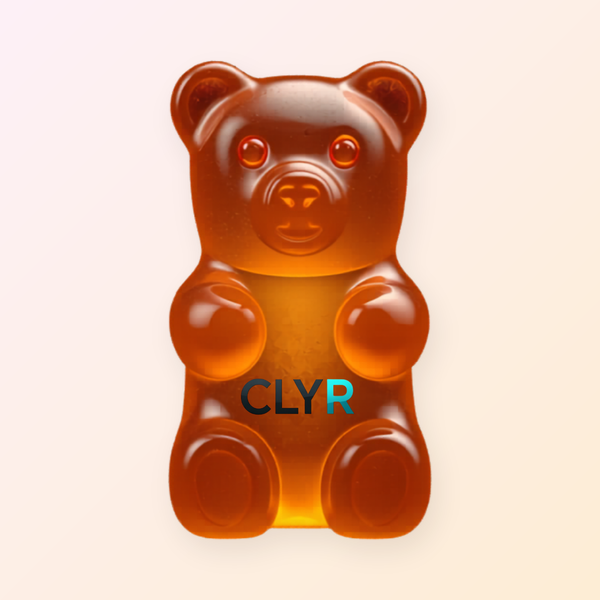
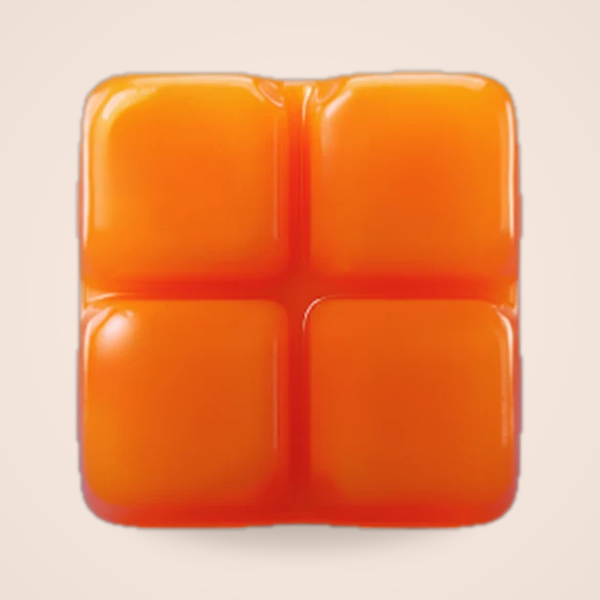
og-images: regenerate 3 redesigned product OG cards to match live art + cache-bust
Text/social link previews showed pre-redesign product art (the OG meta still
pointed at the old /img/card/ set). Isolated the true mismatches by perceptual
diff of old-OG vs current hero art — only 3 products were actually redesigned;
the vial group + tadalafil-5mg already matched and were left untouched.

Regenerated from current cardv2 art onto the matching cream card:
- sildenafil-gummy: gummy bear -> orange square gummy
- sild-tadal-oxy:   purple TRIPLE-ODT troche -> pink T3 ODT tablet
- pt141:            old vial -> pink PT-141 ODT tablet
og:image + twitter:image cache-busted (?v=20260718) so cached previews re-scrape.

diff --git a/pt141.html b/pt141.html
@@ -19,11 +19,11 @@ j=d.createElement(s),dl=l!='dataLayer'?'&l='+l:'';j.async=true;j.src=
 <meta name="description" content="PT-141 (Bremelanotide) + Oxytocin ODT for libido and arousal. Works through the brain's melanocortin pathways. For men and women. from $83/mo, billed once.">
 <meta property="og:title" content="PT-141, Libido support, $149 | CLYR Health">
 <meta property="og:description" content="Bremelanotide acts on the brain to support desire and arousal, for men and women. Combined with Oxytocin.">
-<meta property="og:image" content="https://www.clyr.health/img/card/pt141.png">
+<meta property="og:image" content="https://www.clyr.health/img/card/pt141.png?v=20260718">
 <meta property="og:image:width" content="600">
 <meta property="og:image:height" content="600">
 <meta name="twitter:card" content="summary">
-<meta name="twitter:image" content="https://www.clyr.health/img/card/pt141.png">
+<meta name="twitter:image" content="https://www.clyr.health/img/card/pt141.png?v=20260718">
 <link rel="preconnect" href="https://fonts.googleapis.com">
 <link rel="preconnect" href="https://fonts.gstatic.com" crossorigin>
 <link href="https://fonts.googleapis.com/css2?family=DM+Sans:ital,opsz,wght@0,9..40,300;0,9..40,400;0,9..40,500;0,9..40,600;0,9..40,700;1,9..40,400&family=Instrument+Serif:ital@0;1&display=swap" rel="stylesheet">

diff --git a/sild-tadal-oxy.html b/sild-tadal-oxy.html
@@ -19,11 +19,11 @@ j=d.createElement(s),dl=l!='dataLayer'?'&l='+l:'';j.async=true;j.src=
 <meta name="description" content="Compounded oral dissolving tablet combining sildenafil 50mg, tadalafil 20mg, and oxytocin 125IU. Performance, duration, and intimacy in one ODT. from $109/mo, billed once.">
 <meta property="og:title" content="Sild + Tadal + Oxy ODT, Triple action, $129 | CLYR Health">
 <meta property="og:description" content="Three actives, one tablet. Performance, duration, and intimacy. Compounded ODT.">
-<meta property="og:image" content="https://www.clyr.health/img/card/sild-tadal-oxy.png">
+<meta property="og:image" content="https://www.clyr.health/img/card/sild-tadal-oxy.png?v=20260718">
 <meta property="og:image:width" content="600">
 <meta property="og:image:height" content="600">
 <meta name="twitter:card" content="summary">
-<meta name="twitter:image" content="https://www.clyr.health/img/card/sild-tadal-oxy.png">
+<meta name="twitter:image" content="https://www.clyr.health/img/card/sild-tadal-oxy.png?v=20260718">
 <link rel="preconnect" href="https://fonts.googleapis.com">
 <link rel="preconnect" href="https://fonts.gstatic.com" crossorigin>
 <link href="https://fonts.googleapis.com/css2?family=DM+Sans:ital,opsz,wght@0,9..40,300;0,9..40,400;0,9..40,500;0,9..40,600;0,9..40,700;1,9..40,400&family=Instrument+Serif:ital@0;1&display=swap" rel="stylesheet">

diff --git a/sildenafil-gummy.html b/sildenafil-gummy.html
@@ -19,11 +19,11 @@ j=d.createElement(s),dl=l!='dataLayer'?'&l='+l:'';j.async=true;j.src=
 <meta name="description" content="Sildenafil 50mg chewable gummy. On-demand ED treatment from $74/mo, billed once. Discreet shipping, licensed providers, no pharmacy visits.">
 <meta property="og:title" content="Sildenafil Gummy, $59 | CLYR Health">
 <meta property="og:description" content="On-demand ED treatment in a chewable gummy. Same active ingredient as Viagra®. Free shipping.">
-<meta property="og:image" content="https://www.clyr.health/img/card/sildenafil-gummy.png">
+<meta property="og:image" content="https://www.clyr.health/img/card/sildenafil-gummy.png?v=20260718">
 <meta property="og:image:width" content="600">
 <meta property="og:image:height" content="600">
 <meta name="twitter:card" content="summary">
-<meta name="twitter:image" content="https://www.clyr.health/img/card/sildenafil-gummy.png">
+<meta name="twitter:image" content="https://www.clyr.health/img/card/sildenafil-gummy.png?v=20260718">
 <link rel="preconnect" href="https://fonts.googleapis.com">
 <link rel="preconnect" href="https://fonts.gstatic.com" crossorigin>
 <link href="https://fonts.googleapis.com/css2?family=DM+Sans:ital,opsz,wght@0,9..40,300;0,9..40,400;0,9..40,500;0,9..40,600;0,9..40,700;1,9..40,400&family=Instrument+Serif:ital@0;1&display=swap" rel="stylesheet">